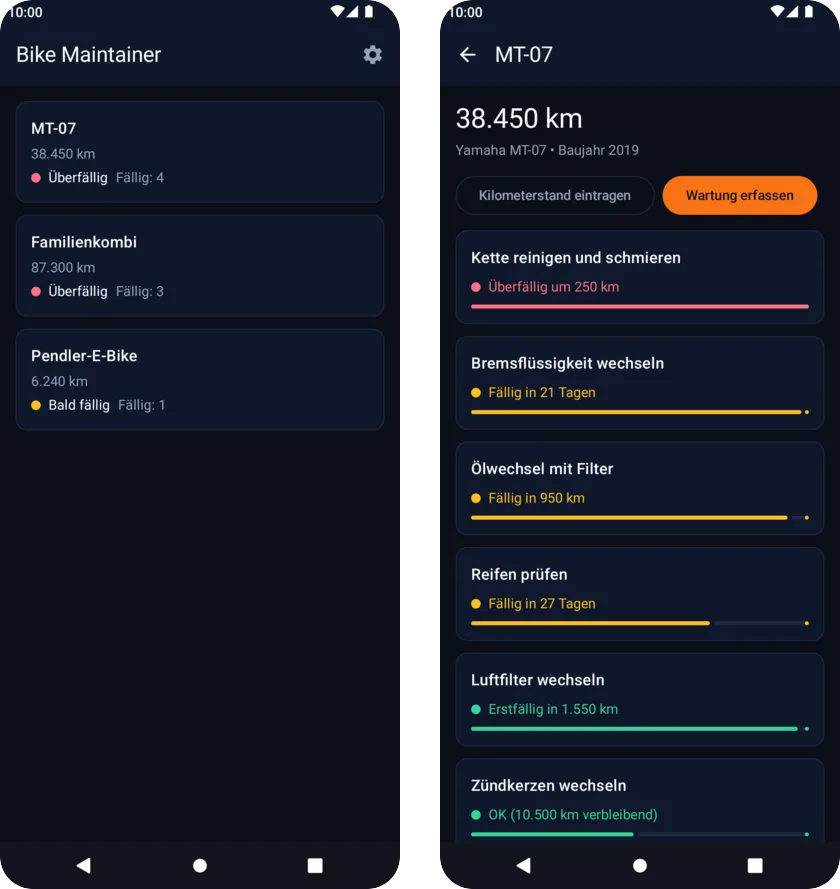
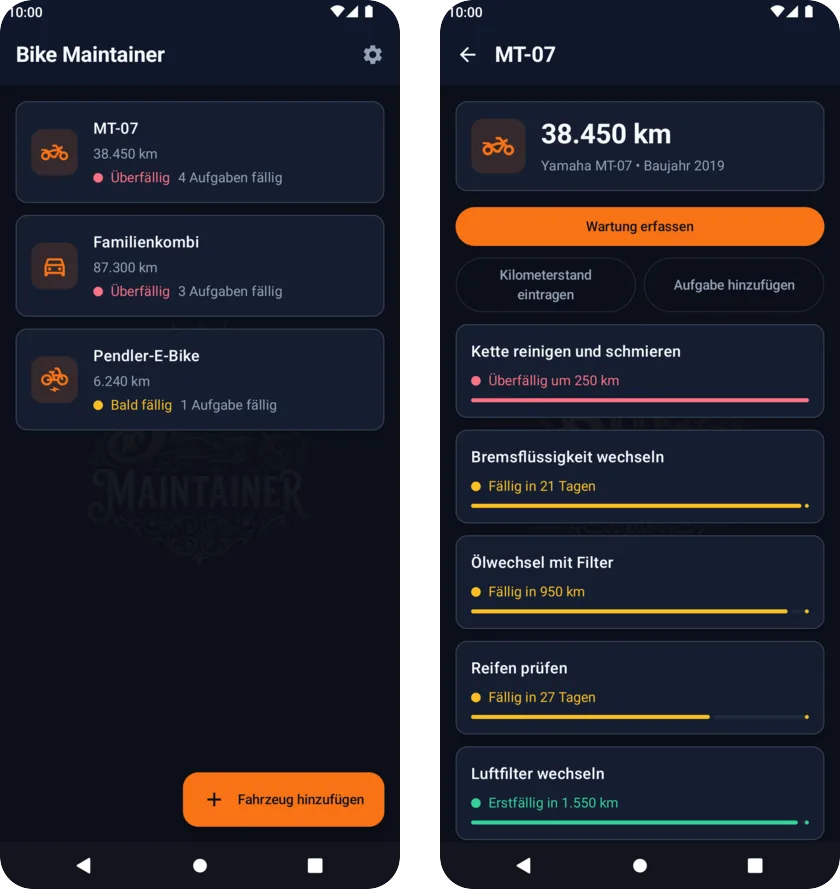
Bring the app features on the homepage up to date (#53)
The app registers and connects to an own server by QR code, creates vehicles
and maintenance plans and works without a connection; the homepage still said
it only signs in. App section, feature tour, self-hosting list and FAQ updated
(EN + DE), and the app picture retaken in the current design. The screenshot
script taps through the welcome screen the app has had since 1.1.

diff --git a/wp-content/themes/bike-maintainer/patterns/app.php b/wp-content/themes/bike-maintainer/patterns/app.php
@@ -50,6 +50,14 @@
 				<!-- /wp:list-item -->
 
 				<!-- wp:list-item -->
+				<li><?php esc_html_e( 'Create vehicles and maintenance plans right on the phone', 'bike-maintainer' ); ?></li>
+				<!-- /wp:list-item -->
+
+				<!-- wp:list-item -->
+				<li><?php esc_html_e( 'Works without a connection too – entries are sent later', 'bike-maintainer' ); ?></li>
+				<!-- /wp:list-item -->
+
+				<!-- wp:list-item -->
 				<li><?php esc_html_e( 'Photograph filled-in worksheets – the values are read on the phone', 'bike-maintainer' ); ?></li>
 				<!-- /wp:list-item -->
 
@@ -72,7 +80,7 @@
 			<!-- /wp:heading -->
 
 			<!-- wp:paragraph {"textColor":"accent-4","style":{"typography":{"fontSize":"0.95rem"}}} -->
-			<p class="has-accent-4-color has-text-color" style="font-size:0.95rem"><?php esc_html_e( 'The signed APK is on GitHub, for Android 10 or newer. Updates come automatically with Obtainium, or you install each new version by hand. You create your portal account in the web app; the app only signs in.', 'bike-maintainer' ); ?></p>
+			<p class="has-accent-4-color has-text-color" style="font-size:0.95rem"><?php esc_html_e( 'The signed APK is on GitHub, for Android 10 or newer. Updates come automatically with Obtainium, or you install each new version by hand. You sign up for the portal right in the app – or connect it to your own server by scanning a QR code.', 'bike-maintainer' ); ?></p>
 			<!-- /wp:paragraph -->
 
 			<!-- wp:list {"className":"is-style-checklist"} -->

diff --git a/wp-content/themes/bike-maintainer/patterns/faq.php b/wp-content/themes/bike-maintainer/patterns/faq.php
@@ -70,7 +70,7 @@
 	<!-- wp:details -->
 	<details class="wp-block-details"><summary><?php esc_html_e( 'Is there an app for my phone?', 'bike-maintainer' ); ?></summary>
 		<!-- wp:paragraph {"textColor":"accent-4","style":{"typography":{"fontSize":"0.9rem"}}} -->
-		<p class="has-accent-4-color has-text-color" style="font-size:0.9rem"><?php esc_html_e( 'Yes, for Android 10 or newer. It reminds you of due maintenance and lets you record work right at the vehicle. The APK is on GitHub; Obtainium keeps it up to date. It needs no Google services.', 'bike-maintainer' ); ?></p>
+		<p class="has-accent-4-color has-text-color" style="font-size:0.9rem"><?php esc_html_e( 'Yes, for Android 10 or newer. It reminds you of due maintenance and lets you record work right at the vehicle – also without a connection, the entries are sent later. You can sign up in the app or connect it to your own server. The APK is on GitHub; Obtainium keeps it up to date. It needs no Google services.', 'bike-maintainer' ); ?></p>
 		<!-- /wp:paragraph -->
 	</details>
 	<!-- /wp:details -->

diff --git a/wp-content/themes/bike-maintainer/patterns/feature-tour.php b/wp-content/themes/bike-maintainer/patterns/feature-tour.php
@@ -70,7 +70,7 @@ $bm_sections = array(
 	array(
 		'app',
 		__( 'The Android app', 'bike-maintainer' ),
-		__( 'Reminders of due maintenance as notifications, recording maintenance right at the vehicle and photographing worksheets. Without Google services, for the portal and for your own server.', 'bike-maintainer' ),
+		__( 'Reminders of due maintenance as notifications, recording maintenance right at the vehicle, setting up vehicles and maintenance plans and photographing worksheets. Without a connection, the app shows the last data and sends your entries later. Without Google services, for the portal and for your own server.', 'bike-maintainer' ),
 		__( 'Android app with the vehicle list and the due jobs of a motorcycle', 'bike-maintainer' ),
 	),
 	array(

diff --git a/tools/screenshots/app.py b/tools/screenshots/app.py
@@ -110,6 +110,8 @@ def main():
         adb("shell", "pm", "clear", PACKAGE)
         adb("shell", "pm", "grant", PACKAGE, "android.permission.POST_NOTIFICATIONS", check=False)
         adb("shell", "monkey", "-p", PACKAGE, "-c", "android.intent.category.LAUNCHER", "1")
+        # Since app 1.1 the first screen asks for an online account or an own server; the dev stack is the latter.
+        tap(r"^(Own server|Eigener Server)$")
         fill(edits()[0], SERVER)
         tap(r"^(Continue|Weiter)$")
         # Plain HTTP to the dev stack: the app warns once.

diff --git a/wp-content/themes/bike-maintainer/patterns/self-hosting.php b/wp-content/themes/bike-maintainer/patterns/self-hosting.php
@@ -98,6 +98,10 @@
 				<!-- wp:list-item -->
 				<li><?php esc_html_e( 'Move vehicles between portal and home by export and import', 'bike-maintainer' ); ?></li>
 				<!-- /wp:list-item -->
+
+				<!-- wp:list-item -->
+				<li><?php esc_html_e( 'Connect the Android app by scanning a QR code', 'bike-maintainer' ); ?></li>
+				<!-- /wp:list-item -->
 			</ul>
 			<!-- /wp:list -->
 
